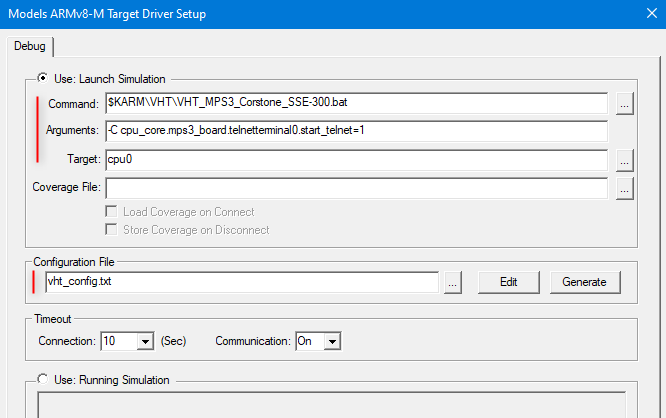
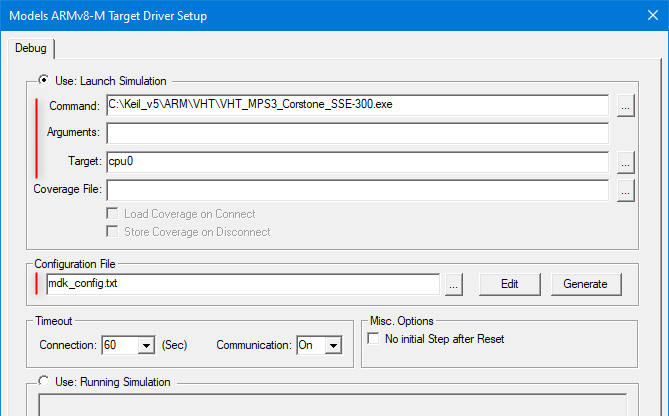
Updated MDK usage, as models are now part of the installer

Changed region(s): [[0.0, 0.0, 1.0, 1.0]]

diff --git a/DoxyGen/infrastructure/src/mdk.md b/DoxyGen/infrastructure/src/mdk.md
@@ -1,21 +1,12 @@
+
 # Run with MDK-Professional {#run_mdk_pro}
 
 This section explains how Arm Virtual Hardware (AVH) processors can be used with [Keil MDK](https://developer.arm.com/tools-and-software/embedded/keil-mdk) tools for developing and debugging embedded applications on a local computer.
 
 ## Tools Installation {#mdk_vht_install}
 
- - [Download Keil MDK](https://www.keil.com/demo/eval/arm.htm) and install it on your Windows PC, if not present yet.
- - Ensure that [MDK-Professional Edition](https://developer.arm.com/tools-and-software/embedded/keil-mdk/buy) is activated in MDK as this is required for running AVH models. If MDK-Professional license is not available, you can [request an evaluation license](https://www.keil.com/support/man/docs/license/license_eval.htm).
- - Download the MDK AddOn with the Arm Virtual Hardware Targets:
-  - Go to [https://www.keil.com/update/sw/mdk/5.36](https://www.keil.com/update/sw/mdk/5.36)
-  - Fill in the form on the page and click Submit button. Note that you need to provide the LIC/PSN of your MDK-Professional license.
-  - Click on the *MDK_ADDON_VHT_CORTEX-M_BETA1.EXE* link and save the AddOn installer file to your PC.
-  .
-  ![Download MDK VHT AddOn](images/mdk_vht_addon_download.png)
- - Install the MDK VHT AddOn:
-  - Double-click on the AddOn installer file and follow the installation steps.
-   - As *Destination Folder* it is recommended to use the Keil MDK installation directory (for example `C:/Keil_v5/`).
-  - After installation is completed, check that the destination folder now contains _ARM/VHT/_ directory, for example `C:/Keil_v5/ARM/VHT/`.
+ - [Download Keil MDK](https://www.keil.com/demo/eval/arm.htm) v5.37 or above and install it on your Windows PC, if not present yet.
+ - Ensure that [MDK-Professional Edition](https://developer.arm.com/tools-and-software/embedded/keil-mdk/buy) is activated in MDK as this is required for running AVH models. If MDK-Professional license is not available, you can [request an evaluation license](https://developer.arm.com/documentation/101454/latest/License-Management/MDK-Professional-Evaluation).
  - [*Optional*] Enable Telnet Client on Windows 10. This will allow to observe UART output from the AVH device during debug.
    - Open _Start_ > _Settings_.
    - In the search box, type _Turn Windows features on or off_ and click on the suggested item. The _Windows Features_ dialog opens.
@@ -30,9 +21,9 @@ Two important configuration areas need special attention in MDK projects for Arm
  - \ref mdk_vht_targets in the project. This is required for new projects or when changing the target device in an existing project.
  - \ref mdk_vht_debug in the project. This step is typically needed for setting up any project, but with reference examples brief verification of the default settings can be sufficient.
 
-Table below lists the Cortex-M cores supported with Arm Virtual Hardware, corresponding device names to be used in \ref mdk_vht_targets, the CMSIS Pack with device support, as well as simulation models to be selected in \ref mdk_vht_debug.
+Table below lists the Cortex-M cores supported with Arm Virtual Hardware, corresponding device names, the CMSIS Pack with device support, as well as simulation models provided with MDK.
 
-Arm Cortex-M core | AVH Device name     | CMSIS Pack with device definition     | Launch command in MDK<sup> 1</sup> |   Description
+Arm Cortex-M core | AVH Device name     | CMSIS Pack with device definition     | Virtual Hardware model in MDK<sup> 1</sup> |   Description
 :-----------------|:--------------------|:--------------------------------------|:-----------------------------------|:-------------------------------
 Cortex-M0         | CMSDK_CM0_VHT       | Keil.V2M-MPS2_CMx_BSP from v1.8.0     | VHT_MPS2_Cortex-M0_MDK.exe         | CPU with Cortex-M0 core
 Cortex-M0+        | CMSDK_CM0plus_VHT   | Keil.V2M-MPS2_CMx_BSP from v1.8.0     | VHT_MPS2_Cortex-M0plus_MDK.exe     | CPU with Cortex-M0+ core
@@ -45,22 +36,23 @@ Cortex-M7, FP(DP) | CMSDK_CM7_DP_VHT    | Keil.V2M-MPS2_CMx_BSP from v1.8.0     
 Cortex-M23        | IOTKit_CM23_VHT     | Keil.V2M-MPS2_IOTKit_BSP from v1.5.0  | VHT_MPS2_Cortex-M23_MDK.exe        | CPU with Cortex-M23 core
 Cortex-M33        | IOTKit_CM33_VHT     | Keil.V2M-MPS2_IOTKit_BSP from v1.5.0  | VHT_MPS2_Cortex-M33_MDK.exe        | CPU with Cortex-M33 core
 Cortex-M33, FP    | IOTKit_CM33_FP_VHT  | Keil.V2M-MPS2_IOTKit_BSP from v1.5.0  | VHT_MPS2_Cortex-M33_MDK.exe        | CPU with Cortex-M33 core and Floating Point Unit (FPU) support
-Cortex-M55        | SSE-300-MPS3        | ARM.V2M_MPS3_SSE_300_BSP.1.2.0        | VHT_MPS3_Corstone_SSE-300.bat<br>VHT_Corstone_SSE-300_Ethos-U55.bat<br>VHT_Corstone_SSE-300_Ethos-U65.bat| Corstone-300 SoC with Cortex-M55.<br>Same  device definition is used, but a model shall be selected<br>depending on the required microNPU (none, Ethos-U55 or Ethos-U65)
+Cortex-M55        | SSE-300-MPS3        | ARM.V2M_MPS3_SSE_300_BSP from v1.2.0  | VHT_MPS3_Corstone_SSE-300.exe<br>VHT_Corstone_SSE-300_Ethos-U55.exe<br>VHT_Corstone_SSE-300_Ethos-U65.exe| Corstone-300 SoC with Cortex-M55.<br>Same  device definition is used, but a model shall be selected<br>depending on the required microNPU (none, Ethos-U55 or Ethos-U65)
+Cortex-M85        | SSE-310-MPS3        |  not available yet                    | VHT_Corstone_SSE-310.exe           | CPU with Cortex-M85 core
 
->  <sup>1</sup> The AVH models can be found in the MDK VHT AddOn installation directory provided during \ref mdk_vht_install, for example,`C:/Keil_v5/ARM/VHT/`. Note that when available, a .bat script shall be used to launch a model from MDK.
+>  <sup>1</sup> The Virtual Hardware Targets can be found in the `/ARM/VHT/` folder in the MDK installation directory as used for \ref mdk_vht_install, for example,`C:/Keil_v5/ARM/VHT/`.
 
 ### Target selection {#mdk_vht_targets}
 
 AVH device support is implemented with the same CMSIS principles as used for real hardware targets and explained in [CMSIS Pack](https://arm-software.github.io/CMSIS_5/Pack/html/index.html) and [CMSIS-Core(M)](https://arm-software.github.io/CMSIS_5/Core/html/index.html).
 
-When opening an existing MDK project you will be asked if any missing packs required by the project shall be installed. If you agree to that, also the necessary pack with device definition for the target device used in the project will be automatically installed.
+When opening an existing MDK project or importing it from a .cprj file you will be asked if any missing packs required by the project shall be installed. If you agree to that, also the necessary pack with device definition for the target device used in the project will be automatically installed.
 
 When creating a new project or when changing the target in an existing project you need to select an AVH target as follows:
  - Install the CMSIS pack with target device definition, if not present yet:
-  - Start [*Pack Installer*](https://www.keil.com/support/man/docs/uv4/uv4_ca_packinstaller.htm) utility.
+  - Start [*Pack Installer*](https://developer.arm.com/documentation/101407/latest/Creating-Applications/Software-Components/Pack-Installer) utility.
   - In *Devices* tab expand *ARM* section and select the target Cortex-M core.
-  - In the [*Packs* tab](https://www.keil.com/support/man/docs/uv4/uv4_ca_packinst_packs.htm) under *Device Specific* category select the target CMSIS pack that implements the required AVH device according to the table in \ref  mdk_project_config.
-  - Press *Install* or *Update* button in the pack row to  the latest version installed. For example for Arm Cortex-M4:
+  - In the [*Packs* tab](https://developer.arm.com/documentation/101407/latest/Creating-Applications/Software-Components/Pack-Installer/Packs-Dialog) under *Device Specific* category select the target CMSIS pack that implements the required AVH device according to the table in \ref  mdk_project_config.
+  - Press *Install* or *Update* button in the Action field to get the latest version installed. For example for Arm Cortex-M4:<br/>
   ![Select AVH device as a target](images/mdk_vht_device_pack.png)
   - Observe the button status changed to *Up to date* and return to the project in µVision.
  - Select AVH device as the target in your project:
@@ -77,25 +69,24 @@ Perform the following steps to configure execution and debug of an MDK project o
 
  - Open _Options for Target..._ dialog and navigate to the  _Debug_ tab.
  - In _Use:_ drop-down menu select the *Models Debugger*.
-  <br>The exact selection varies slightly depending on the target device core: *Models Cortex-M Debugger* for Cortex-M0/M0+/M3/M4/M7 devices and *Models ARMv8-M Debugger* for Cortex-M23/M33/M55.
-  <br>For example for Corstone-300:<br>
+  <br>The exact name varies slightly depending on the target device core: *Models Cortex-M Debugger* for Cortex-M0/M0+/M3/M4/M7 devices and *Models ARMv8-M Debugger* for Cortex-M23/M33/M55/M85.
+  <br>For example for Corstone-300 with a Cortex-M55 core:<br>
  ![Models ARMv8-M Debugger](images/uv4_model_debug.png)
- - Click on the _Settings_ button. This opens corresponding *Models Target Driver Setup_ dialog*. A correct configuration for Corestone-300 can be as follows:<br>
-    ![AVH model configuration in AVH GetStarted example](images/vht_uv4_setup_basic.png) 
+ - Click on the _Settings_ button. This opens corresponding *Models Target Driver Setup_ dialog*.
     <br>Following fields are important to fill:
   - *Command*: shall contain the path to the AVH model executable file that corresponds to the selected AVH device. See table in \ref mdk_project_config.
-   - `$K` [key sequence](https://www.keil.com/support/man/docs/uv4/uv4_ut_keysequence.htm) can be used for shortening the Keil MDK installation path (for example intead of `C:\Keil_v5\`).
-  - *Arguments*: shall contain [FVP command-line options](https://developer.arm.com/documentation/100966/1116/Getting-Started-with-Fixed-Virtual-Platforms/FVP-command-line-options) to be used with the model execution.
-   - In the example above an option for starting a Telnet client is added to be able to see the redirected UART output during debug session.
-  - *Target*: specifies the CPU to be used. Click the *Browse* button (...) and select the simulation target.
+  - *Arguments*: can be used to specify additional [FVP command-line options](https://developer.arm.com/documentation/100966/1116/Getting-Started-with-Fixed-Virtual-Platforms/FVP-command-line-options) to be used with the model execution.
+  - *Target*: specifies the CPU to be used for execution. Click the *Browse* button (...) and select the target CPU available on the target.
   - *Configuration File*: points to the file with model configuration parameters (passed to the model executable with `-f` option).
   .
+   A correct configuration for Corestone-300 can be as follows:<br>
+    ![AVH model configuration in AVH GetStarted example](images/vht_uv4_setup_basic.png)
 .
-[Fast Models Debug Driver Configuration](https://www.keil.com/support/man/docs/fstmdls/fstmdls_debug_cfg.htm) explains the configuration dialog in details.
+[Fast Models Debug Driver Configuration](https://developer.arm.com/documentation/101452/latest/Debug-Driver-Configuration) explains the configuration dialog in details.
 
 ## Project Export {#mdk_cprj_export}
 
-Universal [.cprj format](https://arm-software.github.io/CMSIS_5/Build/html/cprjFormat_pg.html) is required for building the program with Arm Virtual Hardware cloud environment. So it is important to keep the MDK project files and the _cprj_ file synchronized. For that after saving modifications in the MDK project go to the µVision menu [_Project_ - _Export_](https://www.keil.com/support/man/docs/uv4/uv4_ui_export.htm) and select _Save project to CPRJ format_.
+Universal [.cprj format](https://arm-software.github.io/CMSIS_5/Build/html/cprjFormat_pg.html) is required for building the program with Arm Virtual Hardware cloud environment. So it is important to keep the MDK project files and the _cprj_ file synchronized. For that after saving modifications in the MDK project go to the µVision menu [_Project_ - _Export_](https://developer.arm.com/documentation/101407/latest/User-Interface/Project-Menu-and-Commands/Export-Menu) and select _Save project to CPRJ format_.
 
 ## Program Build and Debug {#mdk_program_run}
 
@@ -104,4 +95,4 @@ Project build and debug on an AVH device can be done in the similar way as any o
  - Press _Rebuild_ button in µVision toolbar (or use `F7` hotkey).
  - Start the debug session from µVision toolbar (or with `Ctrl-F5`). The model executable window should pop up (with `C:\WINDOWS\system32\cmd.exe`) but it will stay empty during the session.
  - If enabled in \ref mdk_vht_debug, a Telnet client will start. Program output should be expected there.
- - Debug the project as usual with available µVision functionality. Refer to [µVision User's Guide](https://www.keil.com/support/man/docs/uv4/) for details about user interface and debug capabilities.
+ - Debug the project as usual with available µVision functionality. Refer to [µVision User's Guide](https://developer.arm.com/documentation/101407) for details about user interface and debug capabilities.

diff --git a/DoxyGen/examples/src/GetStarted.md b/DoxyGen/examples/src/GetStarted.md
@@ -60,7 +60,8 @@ This copies the content of the _main_ branch to on your local drive. The _badges
 **Project setup**
 
  - Install Keil MDK and related tools as described in [Tools installation](../../infrastructure/html/run_mdk_pro.html#mdk_vht_install).
- - In the local project repository double-click on the _basic/basic.debug.uvprojx_ file to open the project in µVision IDE.
+ - In the local project repository double-click on the _basic/basic.debug.cprj_ file to get the project imported into µVision IDE.
+   - Alternatively you can start µVision IDE and import the basic.debug.cprj project via the [_Project_ - _Import_](https://developer.arm.com/documentation/101407/latest/User-Interface/Project-Menu-and-Commands/Export-Menu) menu.
  - Verify the project setup as explained in [Project Configuration](../../infrastructure/html/run_mdk_pro.html#mdk_project_config).
 
 ### Implement tests
@@ -85,7 +86,7 @@ The GetStarted example is configured to open a local Telnet console automaticall
 
 The GetStarted example is also described in _basic.debug.cprj_ file using universal [.cprj format](https://arm-software.github.io/CMSIS_5/Build/html/cprjFormat_pg.html) that gets used in command-line CI environments.
 
-For correct workflow operation it is important to keep the MDK project *uvprojx* file and the *cprj* file synchronized. For that after saving modifications in the MDK project go to the µVision menu [_Project_ - _Export_](https://www.keil.com/support/man/docs/uv4/uv4_ui_export.htm) and select _Save project to CPRJ format_.
+For correct workflow operation it is important to keep the MDK project *uvprojx* file and the *cprj* file synchronized. For that after saving modifications in the MDK project go to the µVision menu [_Project_ - _Export_](https://developer.arm.com/documentation/101407/latest/User-Interface/Project-Menu-and-Commands/Export-Menu) and select _Save project to CPRJ format_.
 
 ## Setup CI pipeline {#GS_SetupCI}
 
